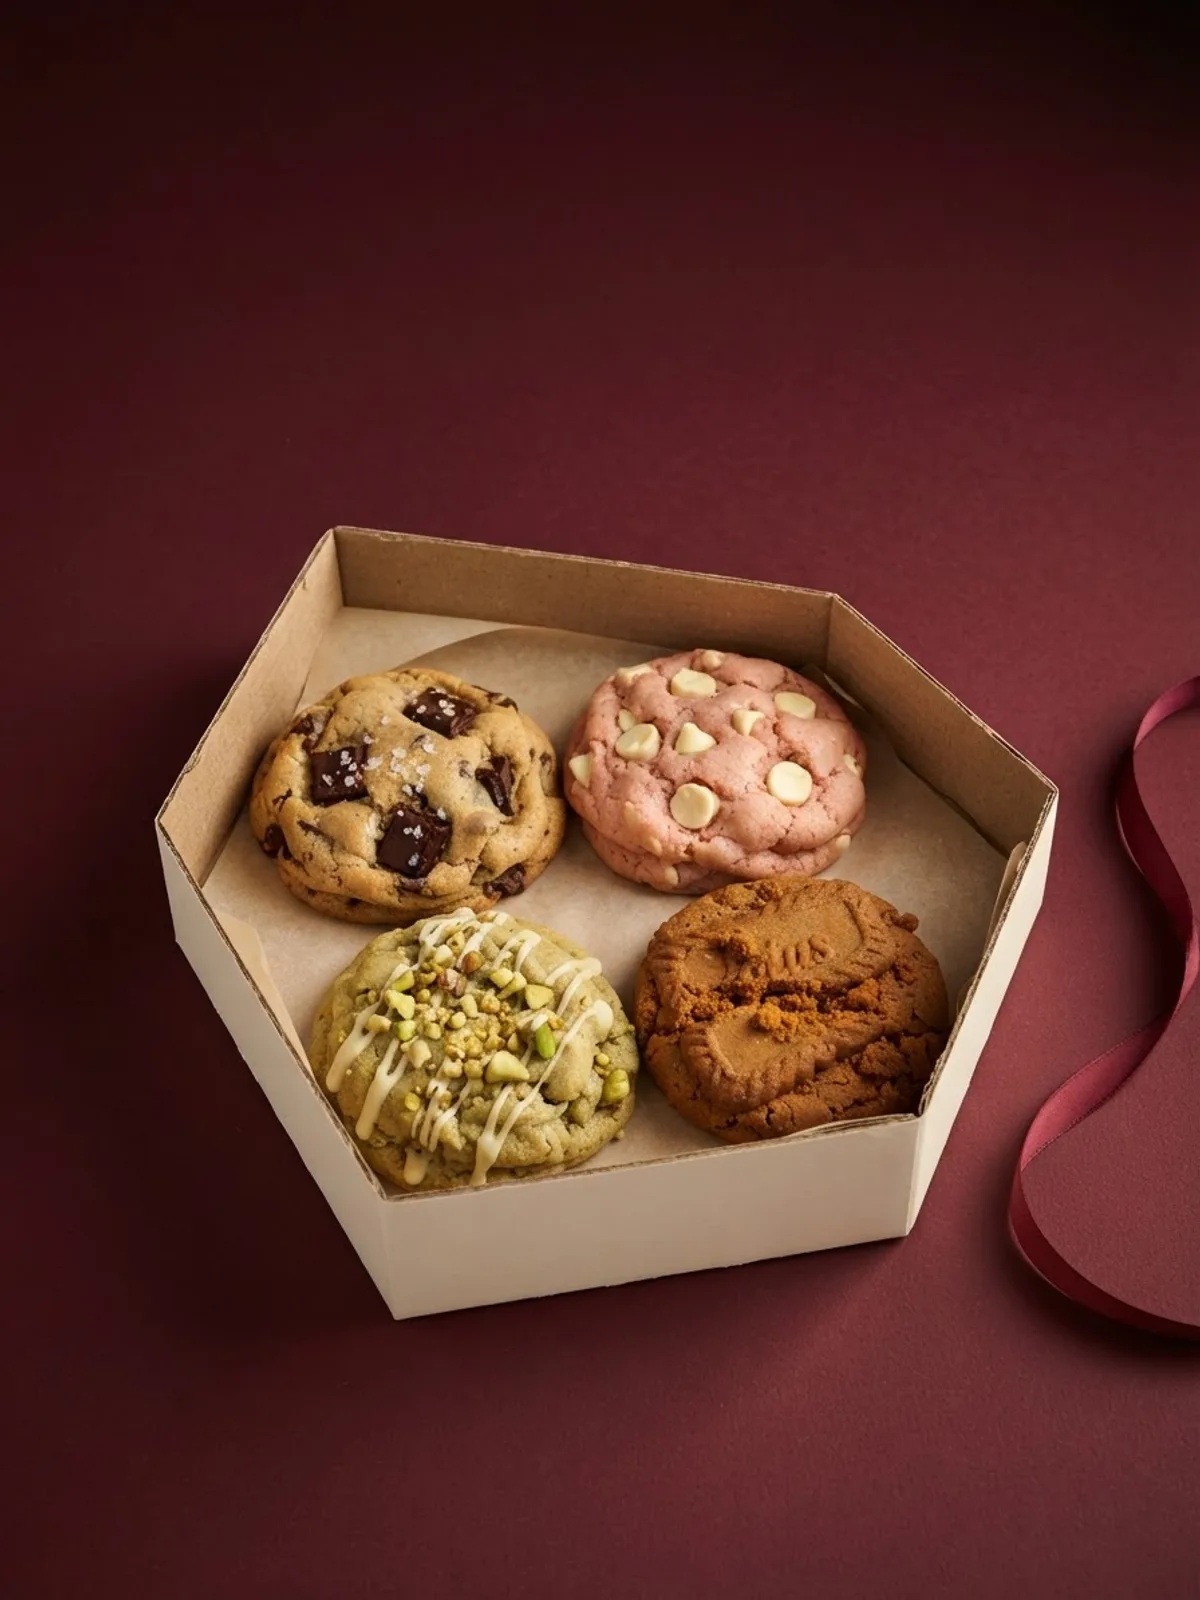
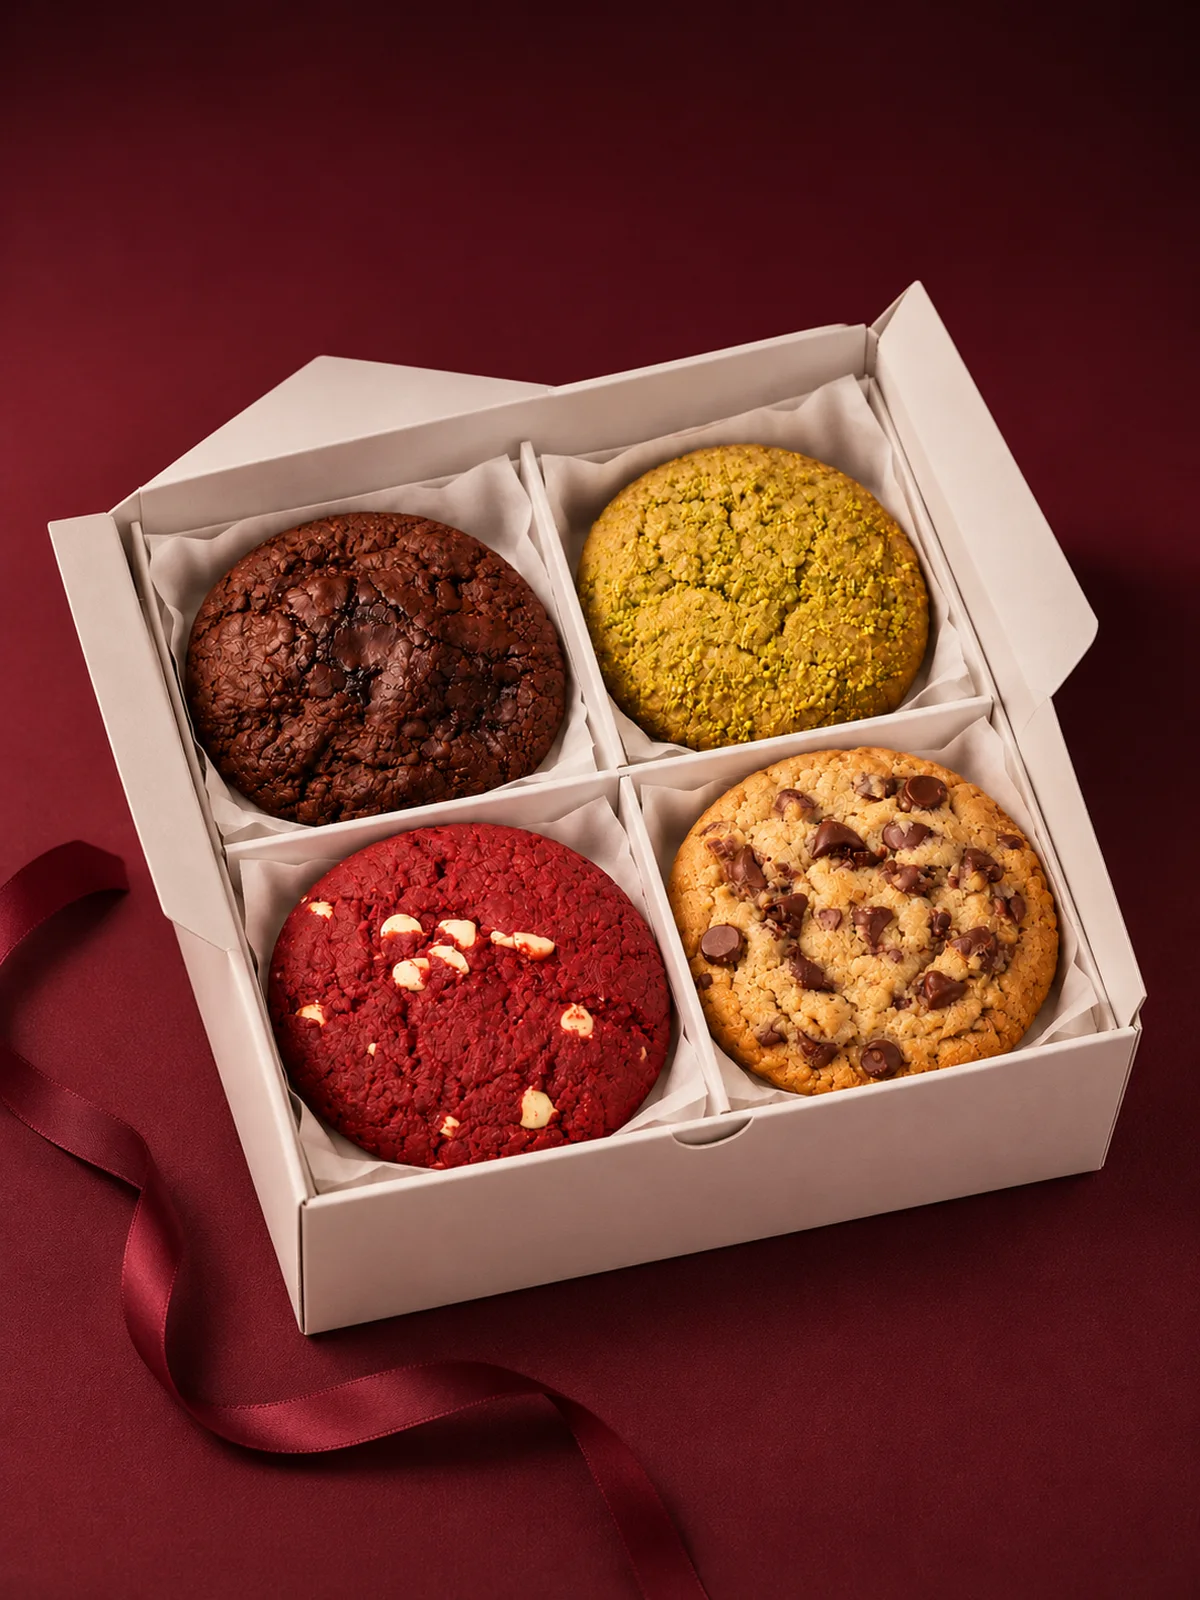
Connect the hosted Supabase project and add the client's photos
- Grant table access to the API roles: hosted projects no longer do it
  by default, so every request failed with "permission denied".
- Real cookie photos: whole and broken views for Choco Chip, Double
  Choco, Pistachio, Red Velvet, Bueno and Praline Dream, now WebP.
- Photos for Build Your Box, Cookie Cup and Cookie Shots, plus the
  About page portrait.
- Missing PDFs return 404 instead of the homepage.

diff --git a/src/lib/assets.ts b/src/lib/assets.ts
@@ -4,8 +4,8 @@ import { useEffect, useState } from 'react';
 export const asset = {
   heroFrame: (device: 'desktop' | 'mobile', n: number) =>
     `/assets/hero/${device}/tem_hero_${device}_${String(n).padStart(4, '0')}.webp`,
-  productWhole: (flavour: string) => `/assets/products/${flavour}/tem_${flavour}_whole.png`,
-  productBroken: (flavour: string) => `/assets/products/${flavour}/tem_${flavour}_broken.png`,
+  productWhole: (flavour: string) => `/assets/products/${flavour}/tem_${flavour}_whole.webp`,
+  productBroken: (flavour: string) => `/assets/products/${flavour}/tem_${flavour}_broken.webp`,
   productTop: (flavour: string) => `/assets/products/${flavour}/tem_${flavour}_top.webp`,
   productCrumb: (flavour: string) => `/assets/products/${flavour}/tem_${flavour}_crumb.png`,
   model: (flavour: string) => `/models/tem_${flavour}.glb`,

diff --git a/src/pages/home/Closing.tsx b/src/pages/home/Closing.tsx
@@ -91,7 +91,7 @@ const COLS: { par: number; mt: string; tiles: [string, string, string][] }[] = [
       ['1/1', asset.category('round'), 'A stack of TEM round cookies'],
       ['4/5', asset.moment('treat'), 'A cookie and a coffee by the window'],
       ['1/1', asset.heroFrame('desktop', 96), 'Cookie breaking apart'],
-      ['3/4', asset.category('cups'), 'Cookie cups with Nutella, pistachio cream, cream cheese and Biscoff spread'],
+      ['3/4', asset.category('cups'), 'A TEM Cookie Cup of cookie bites with a chocolate hazelnut dip lid'],
     ],
   },
   {
